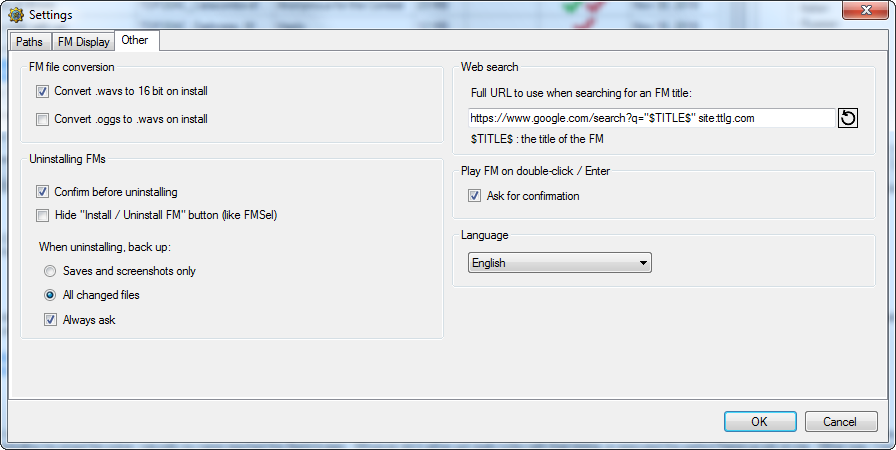
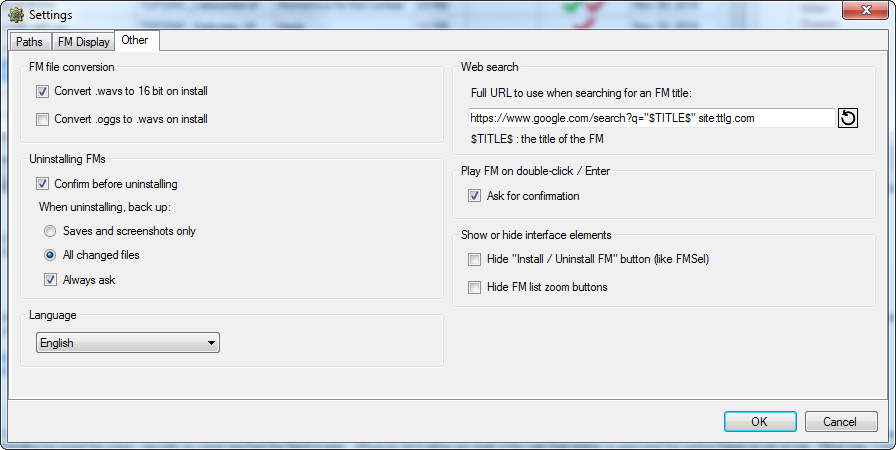
Update doc

Changed region(s): [[0.0312, 0.3733, 0.3125, 0.8089], [0.5, 0.4978, 0.8125, 0.6533]]

diff --git a/doc/AngelLoader documentation.html b/doc/AngelLoader documentation.html
@@ -196,6 +196,7 @@ Double-click the size grip to the right of a column to auto-size that column to 
 <p>Right-click on an FM to bring up the <a href="#fm_context_menu">FM context menu</a>.</p>
 <p>Double-click on a mission or press Enter when a mission is selected to play that mission. By default you will be asked for confirmation in this case; see <a href="#settings_play_on_dc_or_enter_ask">Play FM on double-click / Enter</a>.</p>
 
+<p>You can zoom the FMs list either with the zoom buttons on the top bar, or with <code>Ctrl++</code>,<code>Ctrl+-</code>, and <code>Ctrl+0</code>, or with Ctrl+mousewheel.
 
 <h4>Columns</h4>
 
@@ -393,9 +394,6 @@ Quoted from the FMSel manual:<br>
 <h4>Confirm before uninstalling</h4>
 If this is enabled, you will be prompted for confirmation when uninstalling an FM.
 
-<h4>Hide "Install / Uninstall FM" button</h4>
-For extra-strength misclick prevention, enable this. You will still be able to install and uninstall FMs from the <a href="#fm_context_menu">FM context menu</a>.
-
 <h4><a name="settings_backup" />Back up data when uninstalling</h4>
 When an FM is uninstalled, you will normally want to back up its saves and screenshots so they can be restored if you install it again. You can also choose to back up all changed files, in which case the backup will also include all files in the installed folder that have been added, removed, or modified as compared to the files in the archive. This is useful if you have added <a href="#dml_patches">.dml patches</a> to the FM, or made other modifications such as creating or modifying an fm.cfg file, fixing readables, etc. Because AngelLoader aims to be patch-friendly, this option is the default. You can also choose to always be asked if you want to back up data when uninstalling an FM.
 
@@ -415,6 +413,12 @@ Here you can edit the URL that will be used when searching for FMs on the web. T
 When you double-click on an FM in the list or press Enter when the list is focused,
 the selected FM will be played. Check this box to enable asking for confirmation in that case,
 to prevent accidental playing from a stray click or key press.
+
+<h4>Hide "Install / Uninstall FM" button</h4>
+For extra-strength misclick prevention, enable this. You will still be able to install and uninstall FMs from the <a href="#fm_context_menu">FM context menu</a>.
+
+<h4>Hide FM list zoom buttons</h4>
+Since you can zoom the FMs list with the keyboard or Ctrl+mousewheel, you can hide these buttons to free up room.
 
 <hr>
 
